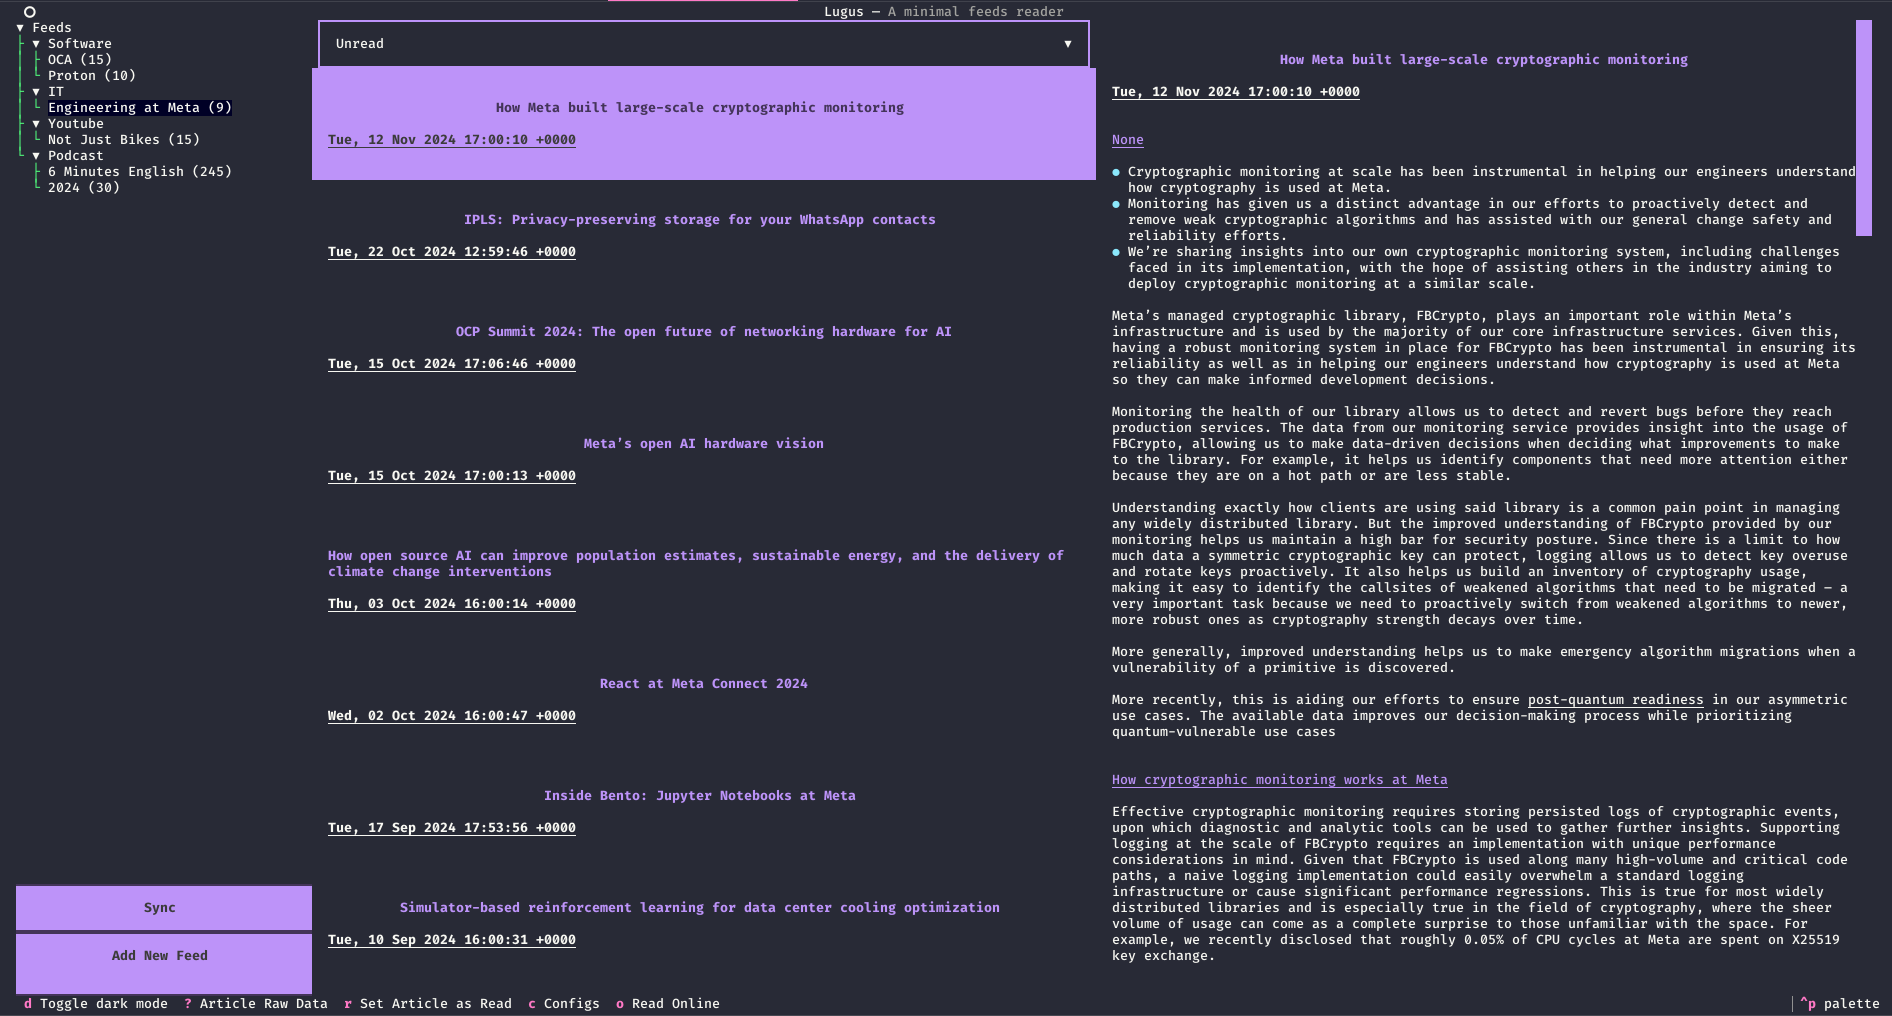
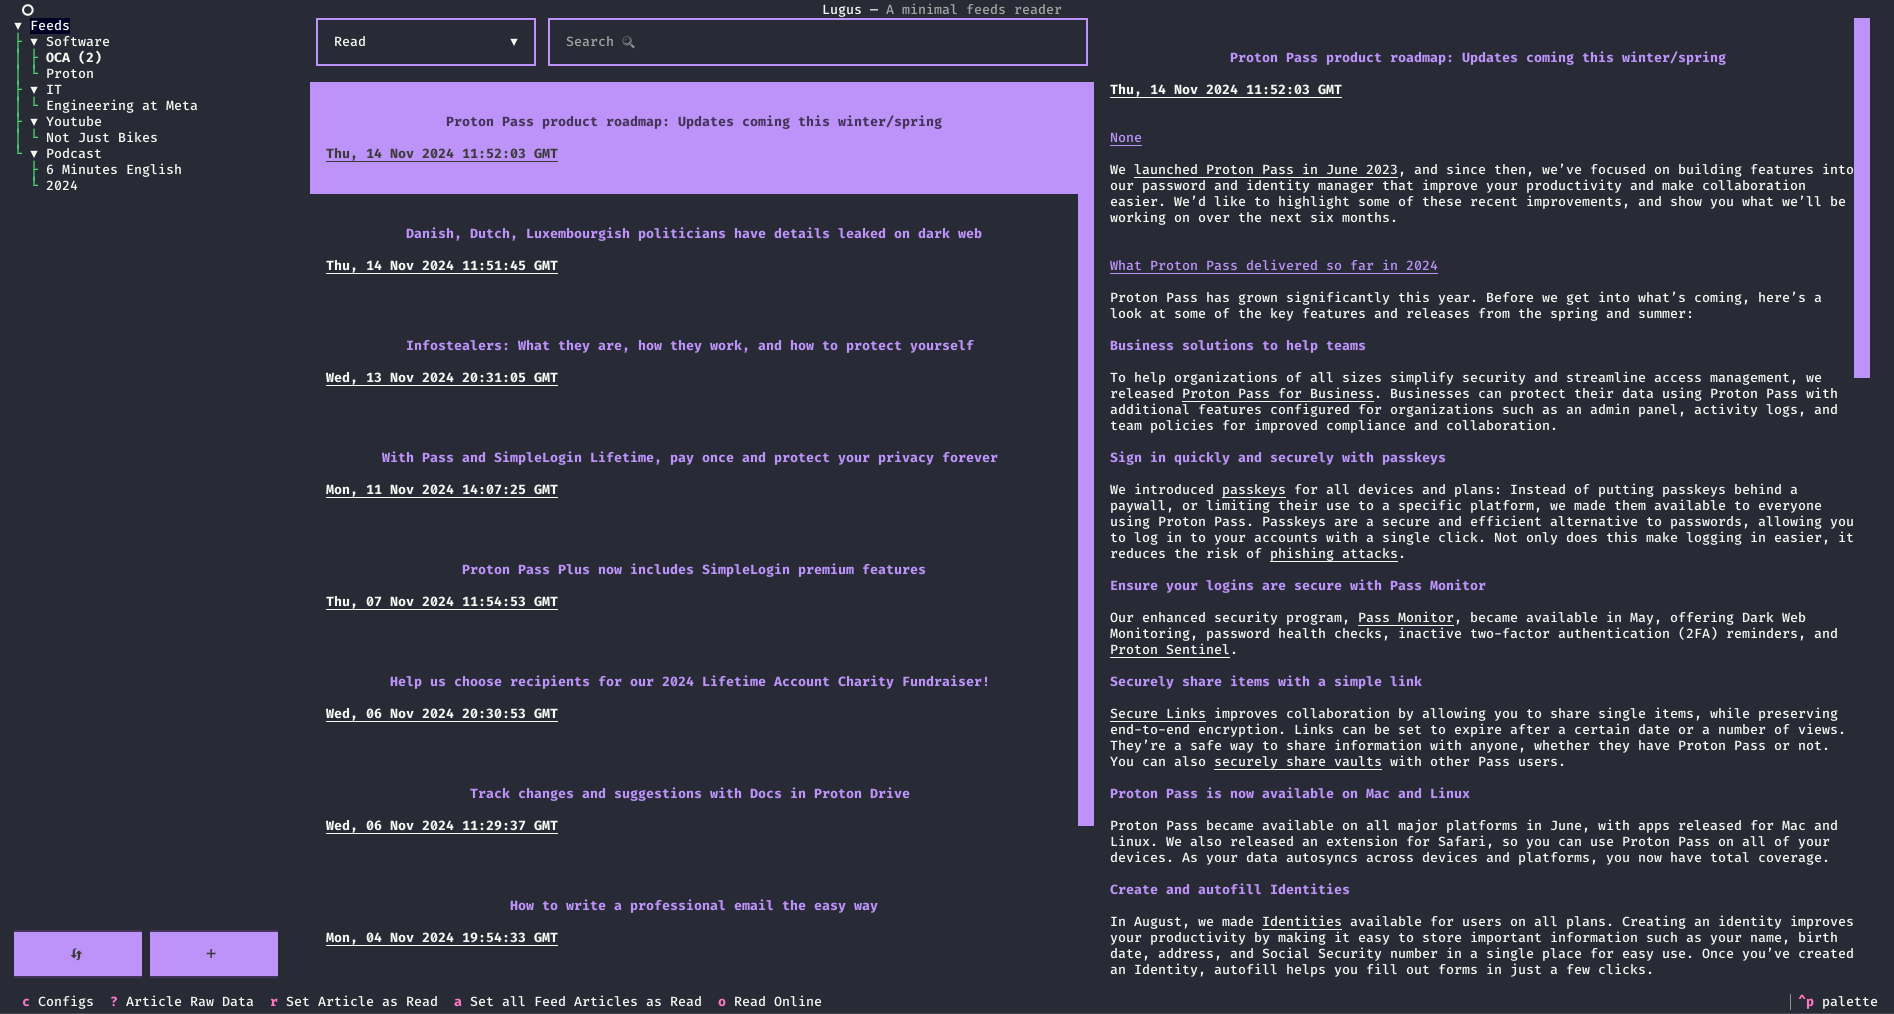
[IMP] Set all article of a feed as read. Search in feed articles

diff --git a/src/lugus/lugus.py b/src/lugus/lugus.py
@@ -78,6 +78,20 @@ class ORM():
         )
         self.connection.commit()
 
+    def update_where(self, table, where, values):
+        cursor = self.connection.cursor()
+        cursor.execute(
+            "UPDATE %s SET %s WHERE %s" % (
+                table,
+                ", ".join([
+                    f"{v[0]} = {self._convert_value(v[1])}"
+                    for v in values
+                    ]),
+                where,
+            )
+        )
+        self.connection.commit()
+
     def read(self, table, id_record):
         if isinstance(id_record, str):
             id_record = int(id_record.lower().replace("id-", ""))
@@ -269,18 +283,41 @@ class Articles(Vertical):
     recomposes = reactive(0, recompose=True)
     feed = reactive(False, recompose=True)
     filter_articles_type = reactive("", recompose=True)
+    filter_articles = reactive("", recompose=True)
 
     def compose(self) -> ComposeResult:
         articles = []
         if self.feed and self.feed.data:
             data = self.feed.data
+            # Filter by Read/Unread
             if self.filter_articles_type == "unread":
                 read = " AND read = 0"
             elif self.filter_articles_type == "read":
                 read = " AND read = 1"
             else:
                 read = ""
-            articles = self.orm.search("article", ["id", "date", "title"], where=f"feed_id = {data["id"]}{read}")
+            # Filter by Title/Content
+            if self.filter_articles:
+                filters = self.filter_articles.split(",")
+                filter_text = ""
+                for filter in filters:
+                    filter = filter.strip().replace("\"", "")
+                    if filter:
+                        if filter.lower().startswith("title:"):
+                            filter = filter.replace("title:", "")
+                            filter_text = f"{filter_text} AND title LIKE \"%{filter}%\""
+                        elif filter.lower().startswith("content:"):
+                            filter = filter.replace("content:", "")
+                            filter_text = f"{filter_text} AND content LIKE \"%{filter}%\""
+                        else:
+                            filter_text = f"{filter_text} AND (title LIKE \"%{filter}%\" OR content LIKE \"%{filter}%\")"
+            else:
+                filter_text = ""
+            articles = self.orm.search(
+                "article",
+                ["id", "date", "title"],
+                where=f"feed_id = {data["id"]}{read}{filter_text}",
+            )
         yield ListView(
             *[
                 ListItem(
@@ -298,15 +335,24 @@ class Articles(Vertical):
 
 class ArticlesArea(Vertical):
 
+    orm = ORM()
+
     def compose(self) -> ComposeResult:
-        yield Select(
-            (
-                ("Unread", "unread"),
-                ("Read", "read"),
-                ("All", "all"),
+        yield Horizontal(
+            Select(
+                (
+                    ("Unread", "unread"),
+                    ("Read", "read"),
+                    ("All", "all"),
+                ),
+                value="unread",
+                id="filter_articles_type",
             ),
-            value="unread",
-            id="filter_articles_type",
+            Input(
+                placeholder="Search " + Emoji.replace(":magnifying_glass_tilted_left:"),
+                id="search_articles",
+            ),
+            classes="w100 hauto mb1",
         )
         yield Articles(
             id="articles"
@@ -316,6 +362,11 @@ class ArticlesArea(Vertical):
     def select_changed(self, event: Select.Changed) -> None:
         if event.select.id == "filter_articles_type":
             self.query_one("#articles").filter_articles_type = event.value
+
+    @on(Input.Changed)
+    def filter_articles(self, event: Input.Changed) -> None:
+        if event.input.id == "search_articles":
+            self.query_one("#articles").filter_articles = event.value
 
 
 class Reader(Vertical):
@@ -357,6 +408,7 @@ class LugusApp(App):
         ("c", "open_configuration", "Configs"),
         ("question_mark", "article_data", "Article Raw Data"),
         ("r", "article_read", "Set Article as Read"),
+        ("a", "all_articles_read", "Set all Feed Articles as Read"),
         ("o", "read_online", "Read Online"),
     ]
 
@@ -491,6 +543,19 @@ class LugusApp(App):
 
     def action_open_configuration(self) -> None:
         self.status = "configuration"
+
+    def action_all_articles_read(self) -> None:
+        feed = self.query_one("#articles").feed
+        if not feed:
+            self.notify("Select a feed", severity="warning")
+        else:
+            self.orm.update_where(
+                "article",
+                f"feed_id = {feed.data["id"]} AND read = 0",
+                [("read", 1)],
+            )
+            self.query_one("#sidebar").recomposes += 1
+            self.query_one("#articles").recomposes += 1
 
     def action_read_online(self) -> None:
         reader = self.query_one("#reader")

diff --git a/README.md b/README.md
@@ -23,6 +23,24 @@ pipx install lugus
 
 ![main page screenshot](https://raw.githubusercontent.com/OpenCode/lugus/main/readme/home.png)
 
+### Search
+
+#### Generic Search
+
+![generic search](https://raw.githubusercontent.com/OpenCode/lugus/main/readme/search.png)
+
+#### Title Search
+
+![title search](https://raw.githubusercontent.com/OpenCode/lugus/main/readme/search_title.png)
+
+#### Content Search
+
+![content search](https://raw.githubusercontent.com/OpenCode/lugus/main/readme/search_content.png)
+
+#### Multiple Search
+
+![multi search](https://raw.githubusercontent.com/OpenCode/lugus/main/readme/search_multi.png)
+
 ### New Feed Screen
 
 ![new feed page screenshot](https://raw.githubusercontent.com/OpenCode/lugus/main/readme/new_feed.png)
@@ -33,13 +51,11 @@ pipx install lugus
 - [ ] Import existing OPML files
 - [ ] Export feeds as OPML file
 - [ ] Set article as unread
-- [ ] Set a feed as read
 - [ ] Set an article as favorite
 - [ ] Tags system for articles
 - [ ] Add notes on articles
 - [ ] Feeds auto-sync
 - [ ] Edit existing feeds
-- [ ] Search articles by name/content
 - [ ] Support for Windows
  
 ## License
